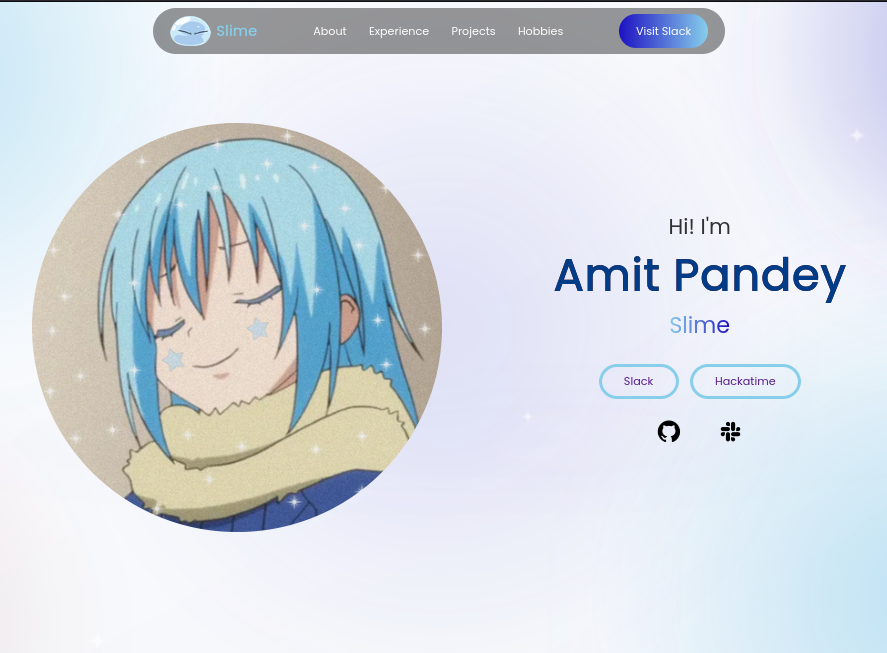
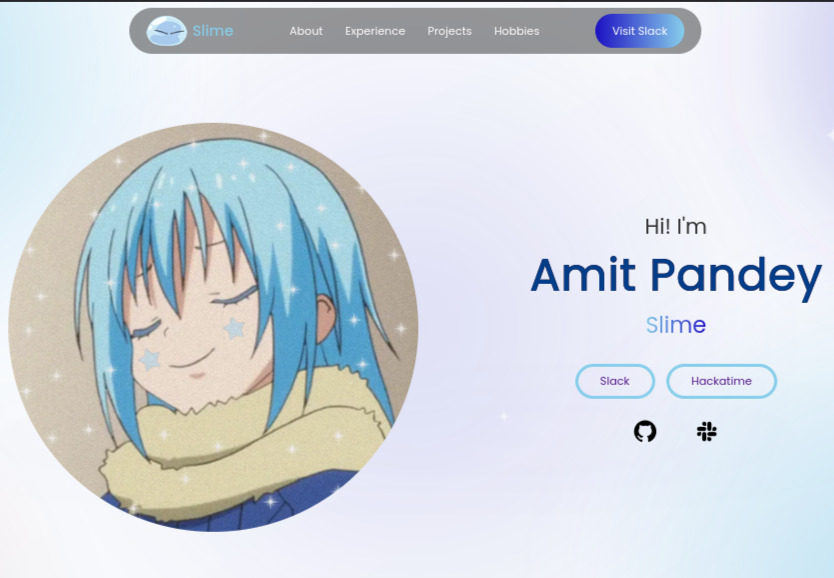
Fixed bugs and used Ai to see if there is any mistakes + made hr line cool

Changed region(s): [[0.0, 0.1869, 0.53, 0.9343], [0.6235, 0.3114, 0.9976, 0.7785], [0.1559, 0.0, 0.8417, 0.0934]]

diff --git a/docs/index.html b/docs/index.html
@@ -7,14 +7,15 @@
     <title>Slime</title>
     <link rel="stylesheet" href="styles.css">
     <link rel="stylesheet" href="https://cdnjs.cloudflare.com/ajax/libs/font-awesome/7.3.0/css/all.min.css">
-
+    <link rel="preconnect" href="https://fonts.googleapis.com">
+    <link href="https://fonts.googleapis.com/css2?family=Poppins:wght@300;400;500;600;650;700&display=swap"
+        rel="stylesheet">
 </head>
-<link href="https://fonts.googleapis.com/css2?family=Poppins&display=swap" rel="stylesheet">
 
 <body>
 
     <header class="header">
-        <a href="#" class="logo"=><img src="logo.png" alt="Slime"><span>Slime</span></a>
+        <a href="#" class="logo"><img src="logo.png" alt="Slime"><span>Slime</span></a>
 
         <ul class="nav-links">
             <li>
@@ -72,7 +73,11 @@
         </div>
 
     </section>
-
+    <div class="section-divider">
+        <span></span>
+        <img src="logo.png" alt="" class="divider-icon">
+        <span></span>
+    </div>
     <section id="experience" class="experience">
         <h2 class="experience-title">Experience</h2>
         <div class="experience-info">
@@ -106,7 +111,11 @@
 
     </section>
 
-
+    <div class="section-divider">
+        <span></span>
+        <img src="logo.png" alt="" class="divider-icon">
+        <span></span>
+    </div>
 
     <section id="projects" class="projects">
         <h2 class="section-title">Projects</h2>
@@ -129,9 +138,8 @@
                 <img src="r.png" alt="Hi! slime here...">
                 <h3>Project Y</h3>
                 <p>I haven't made anything yet. Will get updated soon!!!</p>
-                </p>
                 <div class="btn-group">
-                    <div class="btn">Github Repo</div>
+                    <div class="btn btn-disabled">Coming Soon</div>
                 </div>
             </div>
 
@@ -139,15 +147,18 @@
                 <img src="r.png" alt="Hi! slime here...">
                 <h3>Project Z</h3>
                 <p>I haven't made anything yet. Will get updated soon!!!</p>
-                </p>
                 <div class="btn-group">
-                    <div class="btn">Github Repo</div>
+                    <div class="btn btn-disabled">Coming Soon</div>
                 </div>
             </div>
 
         </div>
     </section>
-    <hr>
+    <div class="section-divider">
+        <span></span>
+        <img src="logo.png" alt="" class="divider-icon">
+        <span></span>
+    </div>
     <section class="hobby" id="hobby">
         <h2 class="section-title">Hobbies</h2>
 
@@ -180,7 +191,11 @@
         </div>
 
     </section>
-
+    <div class="section-divider">
+        <span></span>
+        <img src="logo.png" alt="" class="divider-icon">
+        <span></span>
+    </div>
     <footer>
         <p class="copyright">&copy; 2026 Slime | Idk what this is. I own this ig.. LoL </p>
     </footer>

diff --git a/docs/styles.css b/docs/styles.css
@@ -195,6 +195,17 @@ section {
     color: #405896;
 }
 
+.btn-disabled {
+    opacity: 0.5;
+    cursor: not-allowed;
+    border-style: dashed;
+}
+
+.btn-disabled:hover {
+    background-color: transparent;
+    color: inherit;
+}
+
 .socials {
     display: flex;
     gap: 3rem;
@@ -285,9 +296,7 @@ section {
 .grid-card span {
     font-size: 1.5rem;
     font-weight: 500;
-    background: solid black;
-    background-clip: text;
-    color: solid black;
+    color: black;
 }
 
 
@@ -418,6 +427,57 @@ footer {
 
 
 /* This is for the animation. This is done using AI. ONLY THE CODE BELOW THIS. For HC team*/
+
+
+
+/* ===This is for Section Dividers===*/
+
+.section-divider {
+    display: flex;
+    align-items: center;
+    justify-content: center;
+    gap: 1.5rem;
+    padding: 0 12%;
+    max-width: 900px;
+    margin: 0 auto;
+}
+
+.section-divider span {
+    flex: 1;
+    height: 2px;
+    background: linear-gradient(to right, transparent, skyblue, rgb(29, 17, 194));
+    border-radius: 1rem;
+}
+
+.section-divider span:last-child {
+    background: linear-gradient(to left, transparent, skyblue, rgb(29, 17, 194));
+}
+
+.divider-icon {
+    width: 2.75rem;
+    height: 2.75rem;
+    border-radius: 50%;
+    object-fit: cover;
+    background: white;
+    padding: 0.3rem;
+    animation: divider-pulse 2.5s ease-in-out infinite;
+}
+
+@keyframes divider-pulse {
+
+    0%,
+    100% {
+        transform: scale(1);
+
+    }
+
+    50% {
+        transform: scale(1.15);
+
+    }
+}
+
+
 
 @keyframes rgb-cycle {
     0% {
